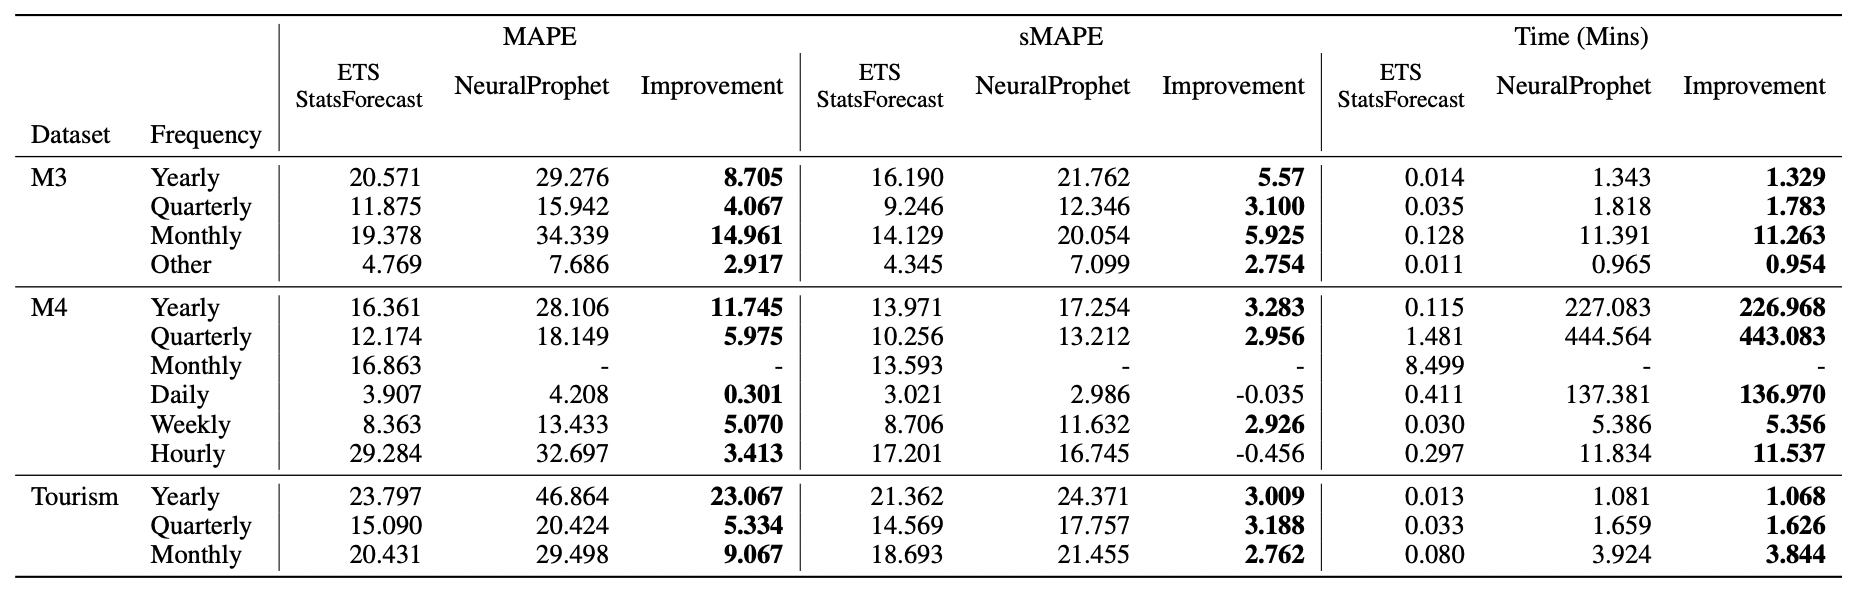
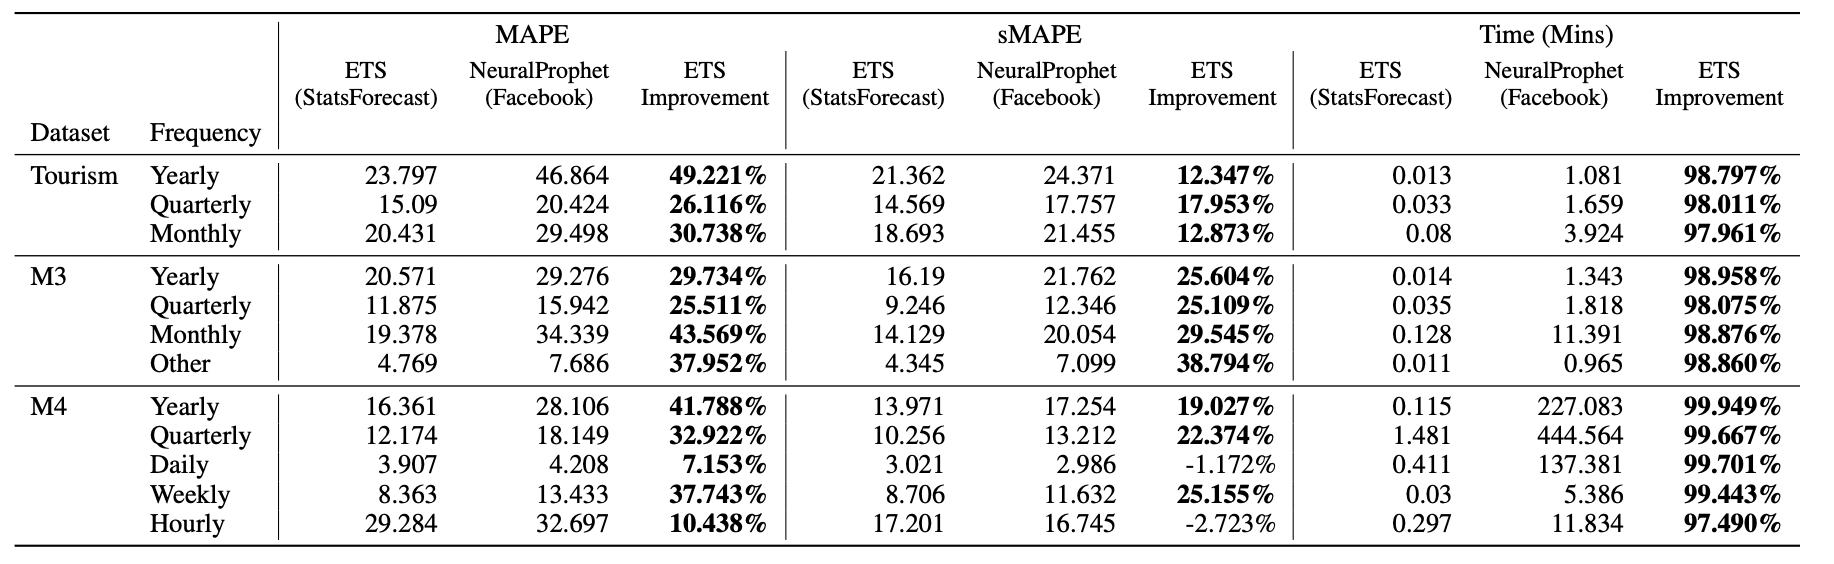
feat: improve text and add pct improvement

Changed region(s): [[0.0, 0.211, 0.9945, 0.9947], [0.0, 0.0, 0.9945, 0.211], [0.0, 0.6933, 0.0311, 0.7234]]

diff --git a/packages/statsforecast/experiments/neuralprophet/README.md b/packages/statsforecast/experiments/neuralprophet/README.md
@@ -13,7 +13,9 @@ pip install statsforecast
 
 ## Background
 
-Recently, the [`NeuralProphet`](https://neuralprophet.com/html/index.html) model was introduced as "a successor to Facebook `Prophet`" according to the [original paper](https://arxiv.org/pdf/2111.15397.pdf). Recently, a [benchmark experiment](https://github.com/Nixtla/statsforecast/tree/main/experiments/arima_prophet_adapter) showed that the `AutoARIMA` model outperforms `Prophet` on accuracy and computational time by a large margin using standard benchmarking datasets. The primary purpose of this experiment is to determine if the `NeuralProphet` model can outperform classical statistical models, mainly because the paper only compares the new model against `Prophet` but not against simple benchmarks. We wanted to test the claim that "Classical models such as Auto-Regressive Integrated Moving Average (ARIMA) and Exponential Smoothing (ETS) have been well studied and provide interpretable components. However, their restrictive assumptions and parametric nature limit their performance in real-world applications." 
+History tends to repeat itself, but it is in the forecasting community's best interest that [FaceBook-`Prophet`'s tainted memory](https://github.com/Nixtla/statsforecast/tree/main/experiments/arima_prophet_adapter) acts as a warning to not commit the same mistakes and adopt overpromising new models.
+
+In this experiment, we test [`NeuralProphet`](https://neuralprophet.com/html/index.html)'s introduction as a "successor" to Facebook-`Prophet` and compare it with classic Exponential Smoothing (`ETS`). We show that it is not the case that `ETS` has "too restrictive assumptions and parametric nature limit their performance in real-world applications" as claimed by `NeuralProphet`'s [paper](https://arxiv.org/pdf/2111.15397.pdf). Moreover, we show that `NeuralProphet`'s predictions are outperformed both in accuracy and computation time by this half-century-old model.
 
 ## Empirical validation
 
@@ -22,7 +24,9 @@ To compare `NeuralProphet` against `ETS`, we designed a pipeline considering the
 ### Notes
 
 - We used the out-of-the-box configuration of the NeuralProphet model in its global-multistep version. This experiment concludes that hyperparameter optimization could be highly costly, particularly for big datasets.
-- During the execution of the experiment, we found issues with the NeuralProphet implementation related to Monthly, Quarterly, and Yearly frequencies. We [fixed the issue and opened a Pull Request to solve the problem](https://github.com/ourownstory/neural_prophet/pull/705).
+- Additionally, we test the performance of `NeuralProphet` using different learning rates (1e-5, 1e-4, 1e-3, 1e-2, 1e-1). The performance is similar.
+- During the execution of the experiment, we found issues with the `NeuralProphet` implementation related to Monthly, Quarterly, and Yearly frequencies. We [fixed the issue and opened a Pull Request to solve the problem](https://github.com/ourownstory/neural_prophet/pull/705).
+- According to the paper and a [discussion on GitHub](https://github.com/ourownstory/neural_prophet/discussions/408), the `NeuralProphet` implementation is not available in GPU. There is a [work-in-progress Pull Request](https://github.com/ourownstory/neural_prophet/pull/420), though. 
 
 ## Results 
 
